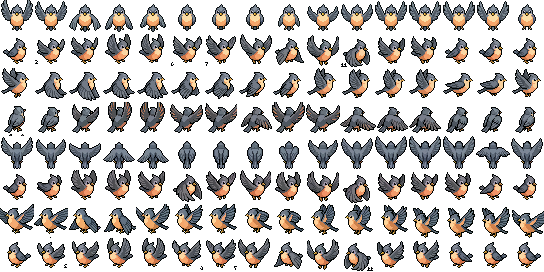
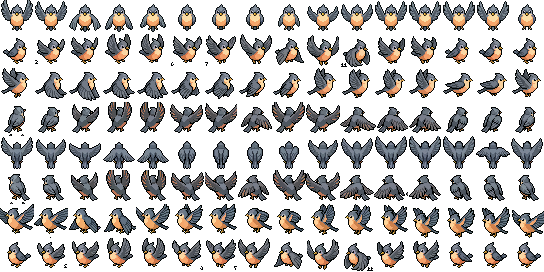
art(ambient): resync bird 1 from PixelLab (upgraded NW fly animation)
The maintainer upgraded bird 1 in the PixelLab create-object UI (object
636e194a) — the north-west fly direction was re-animated (the old NW frames
faced the wrong way; the new ones face up-left correctly with richer wing
detail). Re-packed its 16-frame x 8-facing fly sheet + 8 still rotations into
the runtime layout. Only the NW fly row changed; the still and the other 7
directions are byte-identical to the shipped art (which validated the packing).

Since there was no ambient-bird sync tooling, added a self-contained resync.py
(reads art/sources.json, mirrors a PixelLab object into the packed sheets in
DIR_INDEX order at native 34px) and recorded bird 1's object id so future
upgrades are a one-liner instead of a reverse-engineering exercise.

Claude-Session: https://claude.ai/code/session_01Cyb93gtgJvkAh4Ez6sWvhd

Changed region(s): [[0.0, 0.6176, 1.0, 0.7647]]

diff --git a/games2/ambient/birds/resync.py b/games2/ambient/birds/resync.py
@@ -1,0 +1,112 @@
+#!/usr/bin/env python3
+"""Resync an ambient bird's art from its PixelLab OBJECT (the source of truth).
+
+The 8 ambient birds are hand-made PixelLab "create-object" 8-direction objects,
+each with a 16-frame "fly" animation and 8 still rotations. When a bird is
+upgraded in the PixelLab UI, this mirrors it back into the packed sheet layout
+the runtime loads (runtime/critters.ts):
+
+  fly.png   = 16 flap frames (columns) x 8 facings (rows)   -> 544x272 @ 34px
+  still.png = 8 facings (columns)                           -> 272x34  @ 34px
+
+Rows/columns follow critters.ts DIR_INDEX order (S, SE, E, NE, N, NW, W, SW),
+and the objects are authored at the runtime's native 34x34 so frames pack
+directly — no scaling (pixel art is nearest-neighbour only).
+
+Object IDs live in art/sources.json. Self-contained (only requests + Pillow) so
+the ambient domain doesn't depend on another domain's PixelLab client.
+
+    PIXELLAB_API_KEY=...  python games2/ambient/birds/resync.py bird1
+    python games2/ambient/birds/resync.py           # every bird in sources.json
+"""
+import io
+import os
+import sys
+import json
+import time
+import requests
+from PIL import Image
+
+V2 = "https://api.pixellab.ai/v2"
+HERE = os.path.dirname(os.path.abspath(__file__))
+ART = os.path.join(HERE, "art")
+FRAME = 34  # must equal critters.ts FRAME_W / FRAME_H
+NFRAMES = 16  # must equal critters.ts FLY_FRAMES
+# critters.ts DIR_INDEX — the sheet row (fly) / column (still) for each facing.
+ORDER = ["south", "south-east", "east", "north-east", "north", "north-west", "west", "south-west"]
+
+
+def _key():
+    k = os.environ.get("PIXELLAB_API_KEY")
+    if not k:
+        sys.exit("PIXELLAB_API_KEY is not set")
+    return k
+
+
+def _get(url, key, retries=5):
+    last = None
+    for a in range(retries):
+        try:
+            r = requests.get(url, headers={"Authorization": f"Bearer {key}"}, timeout=180)
+        except requests.RequestException as e:
+            last = e
+            time.sleep(min(2 ** a, 20))
+            continue
+        if r.status_code in (429, 500, 502, 503, 504):
+            last = RuntimeError(f"{r.status_code}: {r.text[:120]}")
+            time.sleep(min(2 ** a, 20))
+            continue
+        r.raise_for_status()
+        return r
+    raise RuntimeError(f"GET {url} failed after {retries}: {last}")
+
+
+def _img(url, key):
+    return Image.open(io.BytesIO(_get(url, key).content)).convert("RGBA")
+
+
+def resync(name, oid, key):
+    o = _get(f"{V2}/objects/{oid}", key).json()
+    w, h = o["size"]["width"], o["size"]["height"]
+    if (w, h) != (FRAME, FRAME):
+        sys.exit(f"{name}: object {oid} is {w}x{h}, expected {FRAME}x{FRAME} (the runtime frame size)")
+    fly_anims = [a for a in (o.get("animations") or []) if int(a.get("frame_count", 0)) == NFRAMES]
+    if not fly_anims:
+        sys.exit(f"{name}: object {oid} has no {NFRAMES}-frame animation")
+    frames = {d["direction"]: d["storage_urls"]["frames"] for d in fly_anims[0]["directions"]}
+    rot = {d: u for d, u in (o.get("rotation_urls") or {}).items() if u}
+    for d in ORDER:
+        if d not in rot:
+            sys.exit(f"{name}: object {oid} is missing the {d} rotation")
+        if len(frames.get(d, [])) != NFRAMES:
+            sys.exit(f"{name}: {d} has {len(frames.get(d, []))} frames, expected {NFRAMES}")
+
+    still = Image.new("RGBA", (FRAME * 8, FRAME), (0, 0, 0, 0))
+    for i, d in enumerate(ORDER):
+        still.alpha_composite(_img(rot[d], key), (i * FRAME, 0))
+
+    fly = Image.new("RGBA", (FRAME * NFRAMES, FRAME * 8), (0, 0, 0, 0))
+    for row, d in enumerate(ORDER):
+        for f, url in enumerate(frames[d]):
+            fly.alpha_composite(_img(url, key), (f * FRAME, row * FRAME))
+
+    dst = os.path.join(ART, name)
+    os.makedirs(dst, exist_ok=True)
+    still.save(os.path.join(dst, "still.png"))
+    fly.save(os.path.join(dst, "fly.png"))
+    print(f"{name}: resynced from {oid}  (still {still.size}, fly {fly.size})")
+
+
+def main():
+    with open(os.path.join(ART, "sources.json")) as f:
+        objs = json.load(f)["objects"]
+    key = _key()
+    names = sys.argv[1:] or sorted(objs)
+    for n in names:
+        if n not in objs:
+            sys.exit(f"unknown bird '{n}'; known: {sorted(objs)}")
+        resync(n, objs[n], key)
+
+
+if __name__ == "__main__":
+    main()
